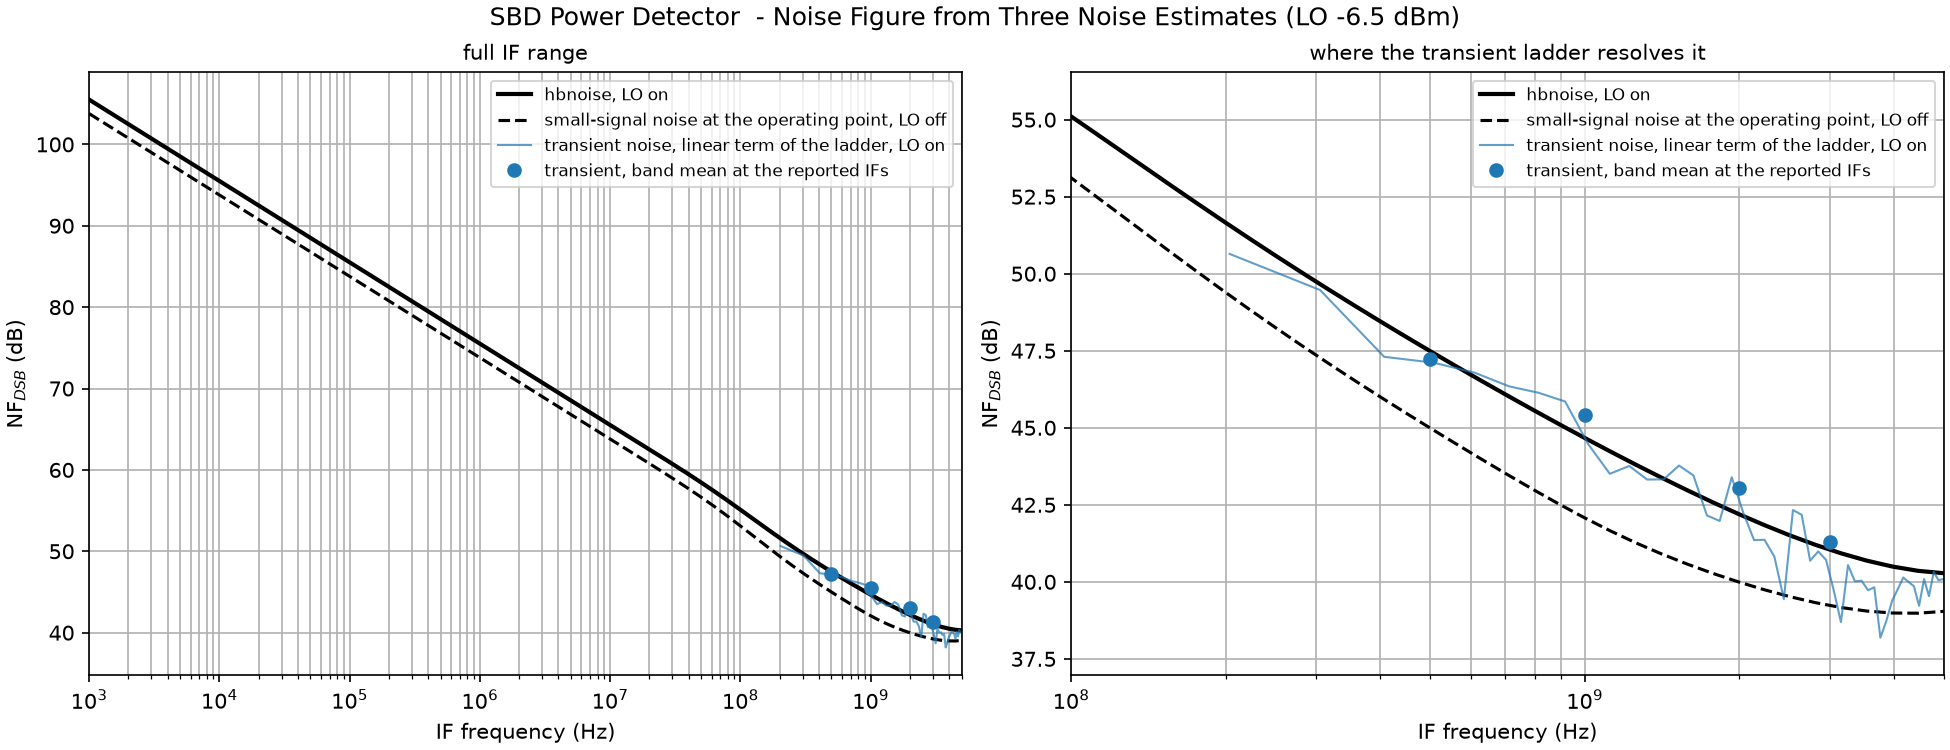
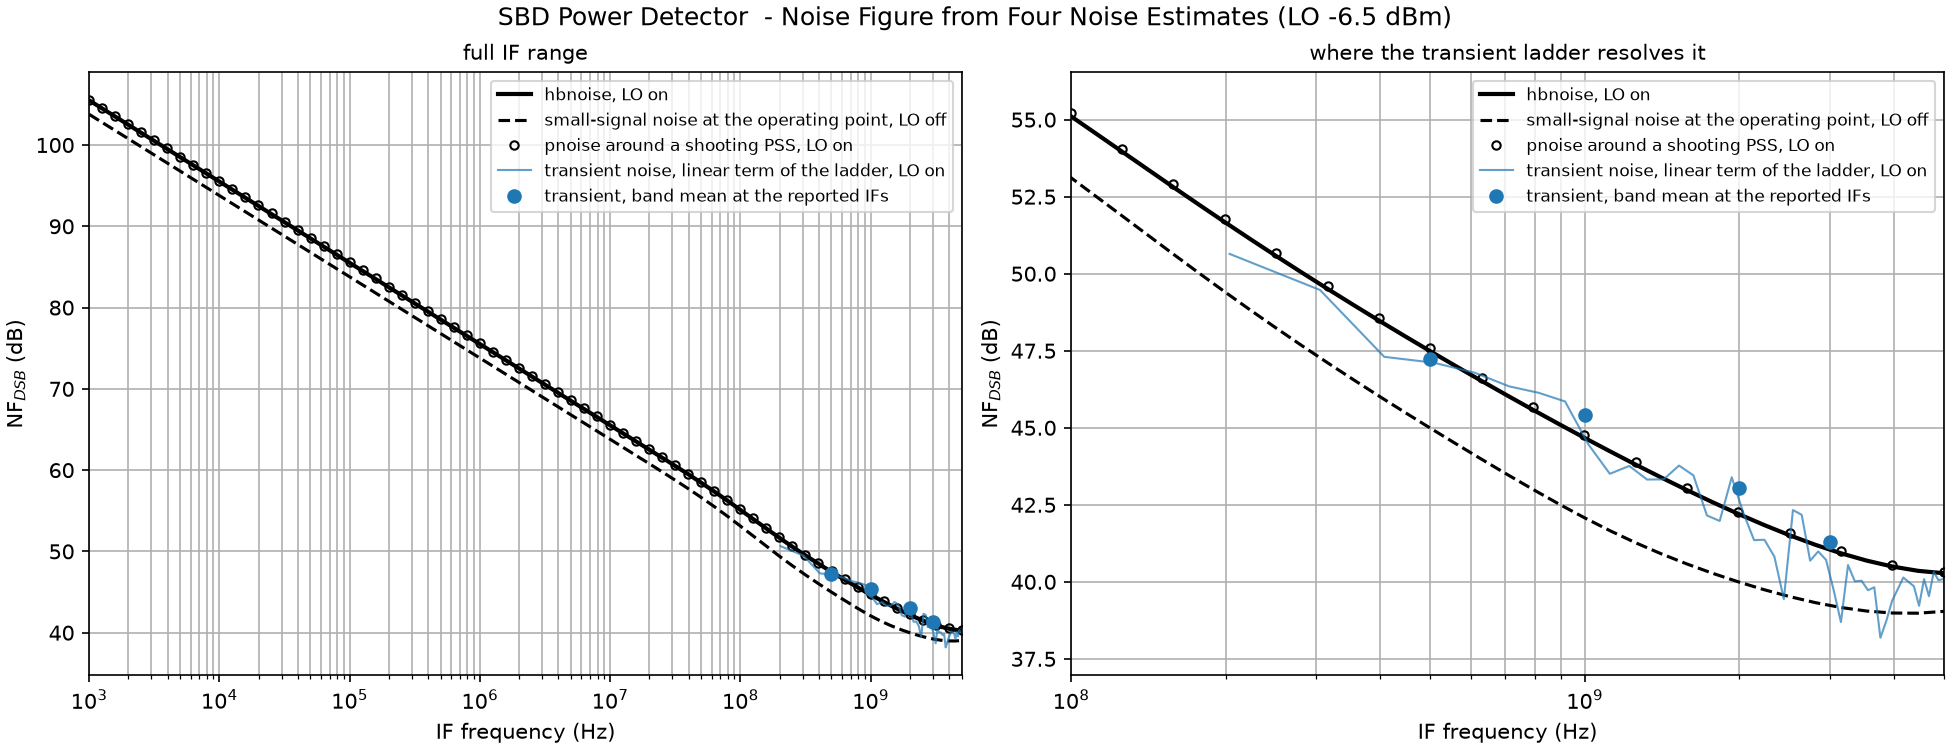
added `pnoise` to the detector noise-figure comparison
The comparison figure of the transient-noise bench (`sparx_powdet_sbd_nf_compare.png`) now draws the `pnoise` noise figure as open circles next to `hbnoise`, the quiescent estimate and the transient ladder, all with the same `hbac` conversion in the denominator. `pnoise` sits within 0.1 dB of `hbnoise` over the whole IF range, which shows that the transient's offset of up to 0.84 dB belongs to the transient estimate.

The script reads `pnoise` from the NF bench's JSON and keeps the three-curve figure when that run had none, as on the notebook's VACASK `89e888d`. The CSV and the TN JSON gain one column and one field, the existing ones are unchanged.

diff --git a/testbenches/xschem/plot_simulations/plot_sparx_powdet_sbd_tb_tn_vacask.py b/testbenches/xschem/plot_simulations/plot_sparx_powdet_sbd_tb_tn_vacask.py
@@ -1,6 +1,6 @@
 # SPDX-FileCopyrightText: 2025-2026 The SPARX Team
 # SPDX-License-Identifier: Apache-2.0 WITH SHL-2.1
-# Description: Check hbnoise (or the quiescent noise analysis) of the SBD detector against the linear limit of a transient-noise noisescale ladder, and the noise figure from all three.
+# Description: Check hbnoise (or the quiescent noise analysis) of the SBD detector against the linear limit of a transient-noise noisescale ladder, and the noise figure from all of them and pnoise.
 
 # TRANSIENT NOISE OF THE SBD POWER DETECTOR.
 #
@@ -29,8 +29,11 @@
 # any rung as a noise level.
 #
 # The noise figure is then computed from the linear term with the same
-# conversion the NF testbench uses, so the three noise estimates, transient,
-# hbnoise and quiescent, can be compared on one number.
+# conversion the NF testbench uses, so the noise estimates, transient,
+# hbnoise and quiescent, can be compared on one number. When the NF run also
+# had pnoise (its JSON carries a shooting_check), pnoise joins them as the
+# deterministic check on a second large-signal engine, with the same hbac
+# conversion in the denominator.
 
 from rawfile import rawread
 import numpy as np
@@ -277,12 +280,17 @@ if pumped and os.path.isfile(NF_FILE) and ref_s_p is not None:
         nf = json.load(fh)
     f_nf = np.asarray(nf['f_Hz'])
     g_sum = np.asarray(nf['g_usb_V2_per_W']) + np.asarray(nf['g_lsb_V2_per_W'])
+    # pnoise output noise without the source resistor, absent when the NF run had no pnoise.
+    shooting = nf.get('shooting_check')
+    nf_pn_full = (db(1.0 + np.asarray(shooting['s_out_pnoise_V2_per_Hz']) / (g_sum * K_B * T0))
+                  if shooting else None)
     print()
-    print(f'Double-sideband noise figure at {nf["p_lo_avail_W"]*1e3:.3g} mW LO from the three noise')
+    print(f'Double-sideband noise figure at {nf["p_lo_avail_W"]*1e3:.3g} mW LO from the noise')
     print('estimates, with the hbac conversion of the NF testbench in the denominator. The')
     print('transient value uses the linear term of the ladder less the source resistor share')
     print('of the hbnoise result.')
-    print(f'{"f_IF [Hz]":>10} {"transient":>10} {"hbnoise":>9} {"quiescent":>10}')
+    print(f'{"f_IF [Hz]":>10} {"transient":>10} {"hbnoise":>9} {"quiescent":>10}'
+          + (f' {"pnoise":>8}' if shooting else ''))
     for row in rows:
         f0 = row['f_Hz']
         g = float(np.interp(f0, f_nf, g_sum))
@@ -293,7 +301,11 @@ if pumped and os.path.isfile(NF_FILE) and ref_s_p is not None:
         nf_q = float(np.interp(f0, f_nf, nf['nf_dsb_quiescent_dB']))
         row.update({'nf_dsb_transient_dB': nf_tn, 'nf_dsb_hbnoise_dB': nf_hbn,
                     'nf_dsb_quiescent_dB': nf_q})
-        print(f'{f0:10.1e} {nf_tn:10.2f} {nf_hbn:9.2f} {nf_q:10.2f}')
+        line = f'{f0:10.1e} {nf_tn:10.2f} {nf_hbn:9.2f} {nf_q:10.2f}'
+        if shooting:
+            row['nf_dsb_pnoise_dB'] = float(np.interp(f0, f_nf, nf_pn_full))
+            line += f' {row["nf_dsb_pnoise_dB"]:8.2f}'
+        print(line)
     # The same, bin by bin over the Welch grid, for the comparison figure. The
     # lowest bins are left out, they are one resolution step from DC.
     m_c = (f >= 2 * f[1]) & (f <= min(FMAX, f_nf[-1]))
@@ -307,6 +319,8 @@ if pumped and os.path.isfile(NF_FILE) and ref_s_p is not None:
         'f_nf': f_nf,
         'nf_hbnoise_full': np.asarray(nf['nf_dsb_dB']),
         'nf_quiescent_full': np.asarray(nf['nf_dsb_quiescent_dB']),
+        'nf_pnoise_full': nf_pn_full,
+        'pnoise': np.interp(f_c, f_nf, nf_pn_full) if shooting else None,
         'p_lo_W': float(nf['p_lo_avail_W']),
     }
 elif pumped:
@@ -372,14 +386,19 @@ print(f'\nWrote {fig_file}')
 if nf_rows is not None and 'nf_curve' in globals():
     fig2, axes2 = plt.subplots(1, 2, figsize=(13, 5), constrained_layout=True)
     p_lo_dbm = 10 * np.log10(nf_curve['p_lo_W'] / 1e-3)
-    fig2.suptitle(f'SBD Power Detector {VARIANT} - Noise Figure from Three Noise Estimates '
-                  f'(LO {p_lo_dbm:.1f} dBm)')
+    has_pn = nf_curve['nf_pnoise_full'] is not None
+    fig2.suptitle(f'SBD Power Detector {VARIANT} - Noise Figure from {"Four" if has_pn else "Three"} '
+                  f'Noise Estimates (LO {p_lo_dbm:.1f} dBm)')
     for ax, lo_x, title in ((axes2[0], 1e3, 'full IF range'),
                             (axes2[1], 1e8, 'where the transient ladder resolves it')):
         ax.semilogx(nf_curve['f_nf'], nf_curve['nf_hbnoise_full'], 'k', lw=2,
                     label='hbnoise, LO on')
         ax.semilogx(nf_curve['f_nf'], nf_curve['nf_quiescent_full'], 'k--', lw=1.5,
                     label='small-signal noise at the operating point, LO off')
+        if has_pn:
+            # Open circles on every other point: pnoise sits within 0.1 dB of hbnoise and a line would vanish under it.
+            ax.semilogx(nf_curve['f_nf'][::2], nf_curve['nf_pnoise_full'][::2], 'o', color='k', mfc='none',
+                        ms=4, label='pnoise around a shooting PSS, LO on')
         ax.semilogx(nf_curve['f_Hz'], nf_curve['transient'], color='tab:blue', lw=1, alpha=0.7,
                     label='transient noise, linear term of the ladder, LO on')
         ax.semilogx([r['f_Hz'] for r in rows], [r['nf_dsb_transient_dB'] for r in rows], 'o',
@@ -399,10 +418,12 @@ if nf_rows is not None and 'nf_curve' in globals():
     print(f'Wrote {fig2_file}')
     csv2 = os.path.join(DATA_DIR, f'sparx_powdet_sbd_nf_compare{SUFFIX}.csv')
     os.makedirs(DATA_DIR, exist_ok=True)
-    np.savetxt(csv2, np.column_stack((nf_curve['f_Hz'], nf_curve['transient'],
-                                      nf_curve['hbnoise'], nf_curve['quiescent'])),
-               delimiter=',', comments='', fmt='%.6e',
-               header='f_hz,nf_dsb_transient_db,nf_dsb_hbnoise_db,nf_dsb_quiescent_db')
+    cols2 = [nf_curve['f_Hz'], nf_curve['transient'], nf_curve['hbnoise'], nf_curve['quiescent']]
+    header2 = 'f_hz,nf_dsb_transient_db,nf_dsb_hbnoise_db,nf_dsb_quiescent_db'
+    if has_pn:
+        cols2.append(nf_curve['pnoise'])
+        header2 += ',nf_dsb_pnoise_db'
+    np.savetxt(csv2, np.column_stack(cols2), delimiter=',', comments='', fmt='%.6e', header=header2)
     print(f'Wrote {csv2}')
 
 os.makedirs(DATA_DIR, exist_ok=True)

diff --git a/testbenches/xschem/README.md b/testbenches/xschem/README.md
@@ -295,24 +295,24 @@ The cause is the SPICE Gummel-Poon model `sp_bjt`, updated in VACASK on 2026-09-
 
 ![Transient noise](plot_simulations/figures/sparx_powdet_sbd_tn.png)
 
-Transient noise and `hbnoise` share no code path, so a transient with the LO on is the one check of the periodic noise analyses that does not rest on a linearization at all. The deterministic check on a second large-signal engine is `pnoise` in the NF bench, see [the shooting cross-check](#the-shooting-cross-check-pac-and-pnoise). The script takes the output PSD of each run by Welch's method at 100 MHz resolution, splits it as a term linear in `noisescale` squared plus a remainder, solves the two from the extreme rungs, and compares the linear term against the `hbnoise` and the quiescent `noise` result of the NF bench. With the same `hbac` conversion in the denominator it then states the noise figure from all three noise estimates:
+Transient noise and `hbnoise` share no code path, so a transient with the LO on is the one check of the periodic noise analyses that does not rest on a linearization at all. The deterministic check on a second large-signal engine is `pnoise` in the NF bench, see [the shooting cross-check](#the-shooting-cross-check-pac-and-pnoise). The script takes the output PSD of each run by Welch's method at 100 MHz resolution, splits it as a term linear in `noisescale` squared plus a remainder, solves the two from the extreme rungs, and compares the linear term against the `hbnoise` and the quiescent `noise` result of the NF bench. With the same `hbac` conversion in the denominator it then states the noise figure from all three noise estimates, and from the `pnoise` result of the NF bench when that run had it:
 
-| IF | transient, linear term | `hbnoise` | quiescent `noise` |
-|---|---|---|---|
-| 0.5 GHz | 47.2 dB | 47.5 dB | 45.0 dB |
-| 1 GHz | 45.4 dB | 44.7 dB | 42.1 dB |
-| 2 GHz | 43.0 dB | 42.2 dB | 40.0 dB |
-| 3 GHz | 41.3 dB | 41.1 dB | 39.2 dB |
+| IF | transient, linear term | `hbnoise` | quiescent `noise` | `pnoise` |
+|---|---|---|---|---|
+| 0.5 GHz | 47.2 dB | 47.5 dB | 45.0 dB | 47.6 dB |
+| 1 GHz | 45.4 dB | 44.7 dB | 42.1 dB | 44.8 dB |
+| 2 GHz | 43.0 dB | 42.2 dB | 40.0 dB | 42.3 dB |
+| 3 GHz | 41.3 dB | 41.1 dB | 39.2 dB | 41.1 dB |
 
 The transient sits within 0.9 dB of `hbnoise` and 2.0 to 3.4 dB above the quiescent estimate, and the three rungs collapse onto one curve within 2 percent when normalised by `noisescale`, so the ladder is in its linear regime. The bench costs about 4 minutes and is part of `sim-all`.
 
 The transient column moved between VACASK builds while `hbnoise` did not: the build of 2026-09-18 gave 47.2, 46.0, 42.9 and 41.2 dB, and the 2026.09 image's `89e888d` and `1b48553` both give the values above, byte-identical between the two. The same seed draws a different noise realisation, and the shift of up to 0.6 dB stays inside the seed scatter below.
 
-#### The three noise estimates in one figure
+#### The four noise estimates in one figure
 
-![Noise figure of the fabricated detector from hbnoise, transient noise and the quiescent noise analysis](plot_simulations/figures/sparx_powdet_sbd_nf_compare.png)
+![Noise figure of the fabricated detector from hbnoise, pnoise, transient noise and the quiescent noise analysis](plot_simulations/figures/sparx_powdet_sbd_nf_compare.png)
 
-The figure is the fabricated detector at -6.5 dBm of LO. All three curves share the `hbac` conversion of the NF bench in the denominator, so what differs between them is only the output-noise estimate: `hbnoise` with the LO on, the quiescent `noise` analysis with the LO off, and the linear term of the transient ladder with the LO on, drawn bin by bin at the 100 MHz Welch resolution from 200 MHz up and as band means at the four reported IFs. Below 200 MHz only the two small-signal analyses exist, a 100 ns record cannot resolve less.
+The figure is the fabricated detector at -6.5 dBm of LO. All curves share the `hbac` conversion of the NF bench in the denominator, so what differs between them is only the output-noise estimate: `hbnoise` with the LO on, the quiescent `noise` analysis with the LO off, `pnoise` around the shooting PSS of the same LO as open circles, and the linear term of the transient ladder with the LO on, drawn bin by bin at the 100 MHz Welch resolution from 200 MHz up and as band means at the four reported IFs. Below 200 MHz only the small-signal analyses exist, a 100 ns record cannot resolve less. The `pnoise` circles sit within 0.1 dB of `hbnoise` over the whole IF range, which is what places the transient's scatter and offset on the transient side. The script takes `pnoise` from the NF bench's JSON and draws the figure with three curves when that run had none, as on a VACASK before `1b48553`.
 
 **Quiescent against `hbnoise`: 1.7 dB at low IF, 2.6 dB at 1 GHz, 1.2 dB at 5 GHz.** This is the difference between linearising the noise sources at the DC bias and at the pumped operating point, and it is plausible in size, sign and shape:
 
